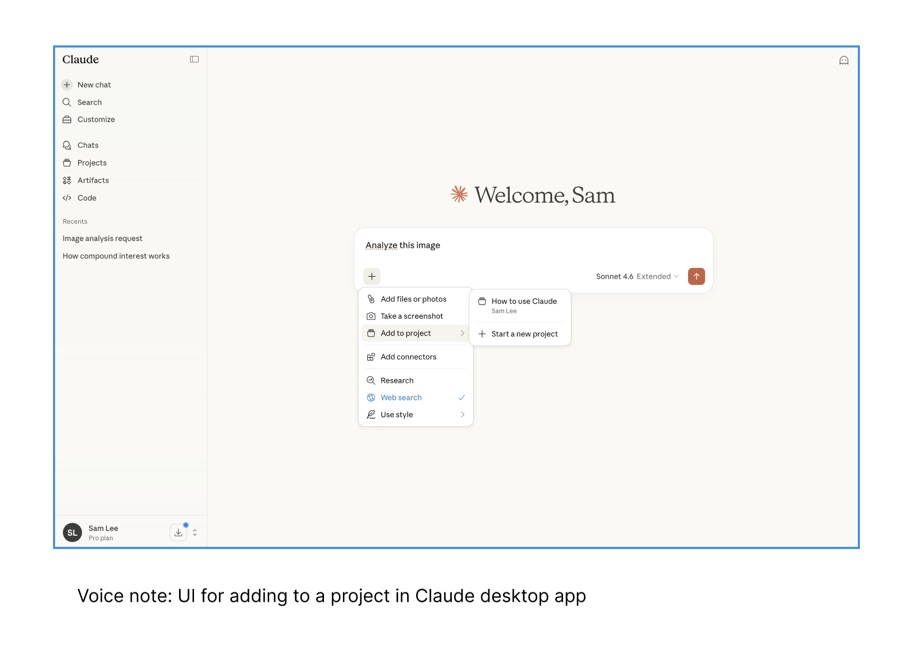
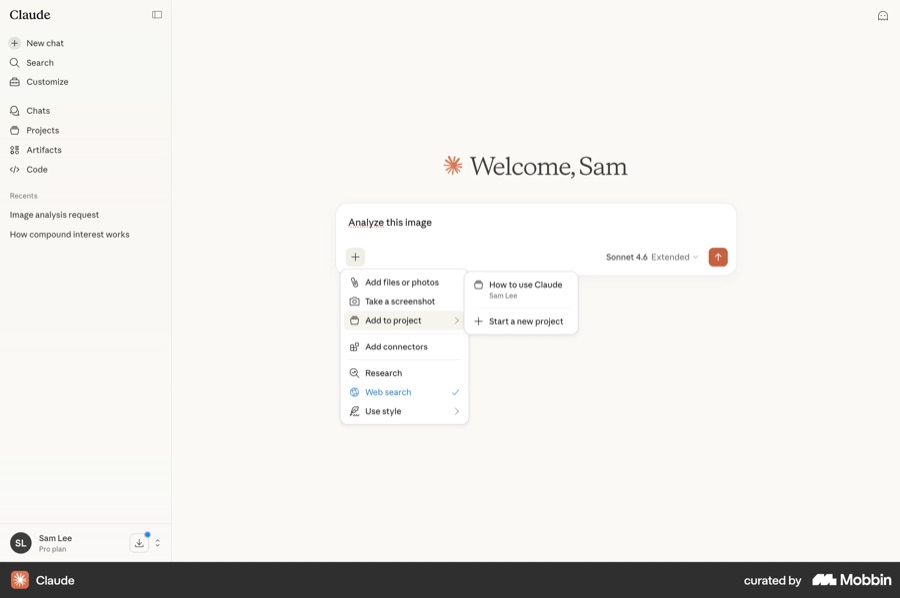
Correct Claude screenshot; home note images at natural proportions

diff --git a/index.html b/index.html
@@ -616,10 +616,13 @@
       transition: opacity 140ms ease;
     }
     .home-hidden-note:hover .home-note-resize { opacity: 1; }
+    /* Home note images render at their natural proportions, fully visible */
     .home-hidden-note .note-card-screenshot {
-      aspect-ratio: 16/9;
-      background:
-        linear-gradient(135deg, var(--surface-hover) 0%, var(--surface-hover-strong) 100%);
+      aspect-ratio: auto;
+      height: auto;
+      width: 100%;
+      object-fit: contain;
+      background: transparent;
       cursor: grab;
     }
     .home-hidden-note.dragging .note-card-screenshot { cursor: grabbing; }
@@ -3634,7 +3637,7 @@
         { text: "Candidate demo'd their recent project at Apple. Shows high taste! Follow up on decision to use sheet vs page.", time: '1:15', img: 'notes/n-music.jpg' },
         { text: 'Bug: Tiles are not resizing properly on POS home screen.', time: '3:08', img: 'notes/n-pos-grid.jpg' },
         { text: 'Voice note: UI for adding to a project in Claude desktop app.', time: '5:27', img: 'notes/n-claude.jpg' },
-        { text: "Airbnb's new search redesign is so nice — explore the expanding filter interaction for our picker.", time: '2:34', img: 'notes/n-airbnb.jpg' },
+        { text: "Airbnb's new search redesign is so nice — explore the expanding filter interaction for our picker.", time: '2:34', img: 'notes/n-airbnb.jpg', portrait: true },
         { text: 'Follow up on the usage metrics shown in townhall — grab the dashboard link from the deck.', time: '4:51', img: 'notes/n-metrics.jpg' },
         { text: 'Made with 💚 by Ryan Stone', time: '6:12', img: 'notes/n-ryan.jpg' },
       ];
@@ -3663,7 +3666,7 @@
         return `
           <div class="note-card home-hidden-note"
                style="left: ${p.x}px; top: ${p.y}px; transform: rotate(${rot}deg);">
-            <div class="note-card-screenshot-wrap"><img class="note-card-screenshot" src="${s.img}" alt="" draggable="false"></div>
+            <div class="note-card-screenshot-wrap"><img class="note-card-screenshot${s.portrait ? ' portrait' : ''}" src="${s.img}" alt="" draggable="false"></div>
             <div class="note-card-body">
               <div class="note-card-text" contenteditable="true" spellcheck="false">${s.text}</div>
               <div class="note-card-meta"><span>${s.time}</span></div>
